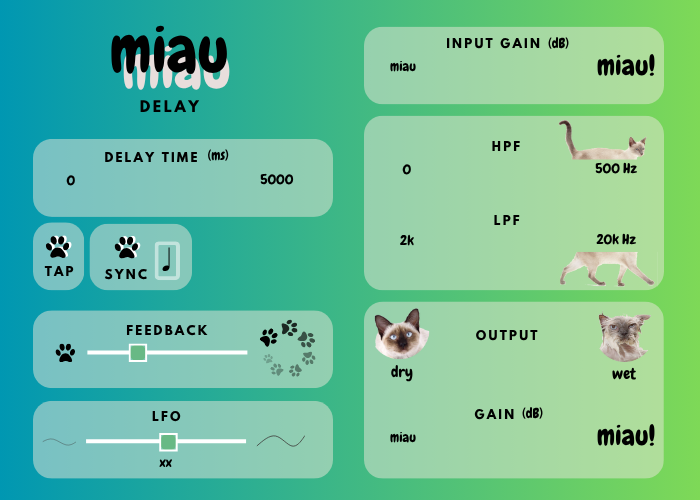
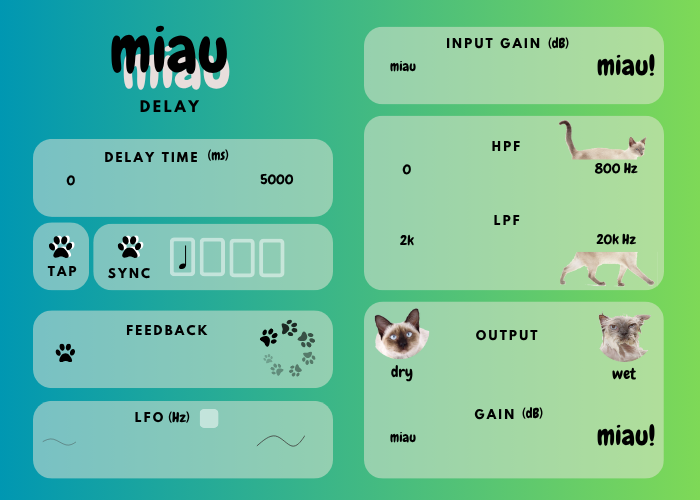
🚧 lfo y sync

diff --git a/Source/PluginProcessor.cpp b/Source/PluginProcessor.cpp
@@ -31,7 +31,7 @@ MiauDelay::~MiauDelay()
 juce::AudioProcessorValueTreeState::ParameterLayout MiauDelay::createParameters()
 {
     juce::AudioProcessorValueTreeState::ParameterLayout parameters;
-    
+    auto waves = juce::StringArray("Sine", "Square", "Saw", "Triangle");
 
     // Par�metros del tiempo del delay
     parameters.add(std::make_unique<juce::AudioParameterInt>(juce::ParameterID{ "DelayTime", 1 }, "DelayTime", 0, 5000, 250));
@@ -43,7 +43,9 @@ juce::AudioProcessorValueTreeState::ParameterLayout MiauDelay::createParameters(
     parameters.add(std::make_unique<juce::AudioParameterInt>(juce::ParameterID{ "LPFFreq", 1 }, "LPFFreq", 2000, 20000, 20000));
     parameters.add(std::make_unique<juce::AudioParameterBool>(juce::ParameterID{ "SyncMode", 1 }, "SyncMode", false));
     parameters.add(std::make_unique<juce::AudioParameterChoice>(juce::ParameterID{ "SyncTime", 1 }, "SyncTime", juce::StringArray{ "1", "1/2", "1/4", "1/8"}, 0));
-
+    parameters.add(std::make_unique<juce::AudioParameterFloat>(juce::ParameterID{ "LFO", 1 }, "LFO", 0.01f, 20.0f, 10.0f));
+    parameters.add(std::make_unique<juce::AudioParameterChoice>(juce::ParameterID{ "LFOChoice", 1 }, "LFOChoice", waves, 0));
+    parameters.add(std::make_unique<juce::AudioParameterBool>(juce::ParameterID{ "ActiveLFO", 1 }, "ActiveLFO", false));
 
     return parameters;
 }
@@ -123,6 +125,7 @@ void MiauDelay::prepareToPlay (double sampleRate, int samplesPerBlock)
 	delay.prepare(sampleRate, samplesPerBlock);
     hpf.prepare(spec);
     lpf.prepare(spec);
+    lfo.prepare(sampleRate);
 }
 
 void MiauDelay::releaseResources()
@@ -166,9 +169,12 @@ void MiauDelay::updateParameters()
     float inOutputGainValue = *apvts.getRawParameterValue("OutputGain");
     float inHPFFreqValue = *apvts.getRawParameterValue("HPFFreq");
     float inLPFFreqValue = *apvts.getRawParameterValue("LPFFreq");
+    float inLFOFreqValue = *apvts.getRawParameterValue("LFO");
+    bool inLFOActive = *apvts.getRawParameterValue("ActiveLFO");
+   // auto inLFOChoiceValue = *apvts.getRawParameterValue("LFOChoice");
     bool inSyncMode = *apvts.getRawParameterValue("SyncMode");
     int inSyncTimeValue = *apvts.getRawParameterValue("SyncTime");
-      
+    
 
     if (inSyncMode)
     {
@@ -179,7 +185,7 @@ void MiauDelay::updateParameters()
             if (bpmValue.hasValue())
             {
                 // Convert sync time value to milliseconds
-                syncTimeHandler.setSyncMode(inSyncTimeValue);
+              //  syncTimeHandler.setSyncMode(inSyncTimeValue);
                 inDelayTimeValue = syncTimeHandler.getSyncTimeInterval(inSyncMode, bpmValue);
             }
         }
@@ -192,6 +198,9 @@ void MiauDelay::updateParameters()
    outputGain.setGainValue(inOutputGainValue);
    hpf.setHPFFreqValue(inHPFFreqValue);
    lpf.setLPFFreqValue(inLPFFreqValue);
+   lfo.setFrequencyValue(inLFOFreqValue);
+   lfoActive = inLFOActive;
+   lfo.setChoiceValue(*apvts.getRawParameterValue("LFOChoice")); // TODO ¿Por qué no se puede hacer como los demás?
 }
 
 void MiauDelay::processBlock (juce::AudioBuffer<float>& buffer, juce::MidiBuffer& midiMessages)
@@ -213,6 +222,11 @@ void MiauDelay::processBlock (juce::AudioBuffer<float>& buffer, juce::MidiBuffer
     // TODO: unificar en una sola funci�n?
     hpf.processHPF(buffer);
     lpf.processLPF(buffer);
+
+    if (lfoActive)
+    {
+        lfo.process(buffer);
+    }
 
     dryWet.process(dryBuffer, buffer);
     outputGain.process(buffer);

diff --git a/Source/DSP/LFO.cpp b/Source/DSP/LFO.cpp
@@ -1,0 +1,129 @@
+/*
+  ==============================================================================
+
+    LFO.cpp
+    Created: 22 Jun 2025 12:25:42pm
+    Author:  masal
+
+  ==============================================================================
+*/
+
+#include "LFO.h"
+
+LFO::LFO() {};
+LFO::~LFO() {};
+
+void LFO::prepare(double theSampleRate)
+{
+	sampleRate = static_cast<float>(theSampleRate);
+	
+    for (int i = 0; i < 2; i++)
+    {
+        time[i] = 0.0f;
+		deltaTime[i] = 1.0f / sampleRate;
+    }
+}
+
+void LFO::process(juce::AudioBuffer<float>& buffer)
+{
+    for (int channel = 0; channel < buffer.getNumChannels(); channel++)
+    {
+        for (int i = 0; i < buffer.getNumSamples(); i++)
+        {
+			float sample = buffer.getSample(channel, i);
+			float waveValue = 0.0f;
+
+            switch (choiceValue)
+            {
+            case Wave::Sine:
+                waveValue = sineWave(channel);
+                break;
+
+            case Wave::Square:
+				waveValue = squareWave(channel);
+				break;
+
+            case Wave::Saw:
+				waveValue = sawtoothWave(channel);
+
+            case Wave::Triangle:
+				waveValue = triangleWave(channel);
+                break;
+            }
+
+            float y = sample * waveValue;
+            buffer.setSample(channel, i, y);
+
+			time[channel] += deltaTime[channel];
+
+            // Reset time variable
+			if (time[channel] >= 1.0f)
+			{
+				time[channel] = 0.0f;
+			}
+        }
+    }
+}
+
+void LFO::setFrequencyValue(float freqValue)
+{
+    frequencyValue = freqValue;
+}
+
+void LFO::setChoiceValue(int choice) 
+{
+    choiceValue = choice;
+}
+
+float LFO::sineWave(int channel)
+{
+    return 0.5f + (0.5f * sinf(twoPi * frequencyValue * time[channel]));
+}
+
+float LFO::squareWave(int channel)
+{
+    float fullPeriodTime = 1.0f / frequencyValue;
+    float halfPeriodTime = fullPeriodTime / 2.0f;
+    float localTime = fmod(time[channel], fullPeriodTime);
+
+    if (localTime < halfPeriodTime)
+    {
+        return 1.0f;
+    }
+    else
+    {
+        return 0.0f;
+    }
+}
+
+float LFO::triangleWave(int channel)
+{
+    float res = 0.0f;
+    float fullPeriodTime = 1.0f / frequencyValue;
+    float localTime = fmod(time[channel], fullPeriodTime);
+
+    float value = localTime / fullPeriodTime;
+
+    if (value < 0.25f)
+    {
+        res = value * 4.0f;
+    }
+    else if (value < 0.75f)
+    {
+        res = 2.0f - (value * 4.0f);
+    }
+    else
+    {
+        res = value * 4.0f - 4.0f;
+    }
+    return res;
+}
+
+float LFO::sawtoothWave(int channel)
+{
+    float fullPeriodTime = 1.0f / frequencyValue;
+    float localTime = fmod(time[channel], fullPeriodTime);
+
+    return (localTime / fullPeriodTime);
+
+}

diff --git a/Source/PluginEditor.h b/Source/PluginEditor.h
@@ -34,8 +34,14 @@ public:
 private:
     MiauDelay& audioProcessor;
 
-    juce::Slider delayTimeSlider, feedbackSlider, dryWetSlider, inputGainSlider, outputGainSlider, hpfSlider, lpfSlider; // lfoSlider;
-    std::unique_ptr<juce::AudioProcessorValueTreeState::SliderAttachment>  delayTimeAttach, feedbackAttach, dryWetAttach, inputGainAttach, outputGainAttach, hpfAttach, lpfAttach; //lfoAttach;
+    juce::Slider delayTimeSlider, feedbackSlider, dryWetSlider, inputGainSlider, outputGainSlider, hpfSlider, lpfSlider, lfoSlider;
+    std::unique_ptr<juce::AudioProcessorValueTreeState::SliderAttachment>  delayTimeAttach, feedbackAttach, dryWetAttach, inputGainAttach, outputGainAttach, hpfAttach, lpfAttach, lfoAttach;
+
+    juce::TextButton lfoActive;
+    std::unique_ptr<juce::AudioProcessorValueTreeState::ButtonAttachment> lfoActiveAttach;
+
+    juce::ComboBox lfoChoiceCombo;
+    std::unique_ptr<juce::AudioProcessorValueTreeState::ComboBoxAttachment> lfoChoiceAttach;
 
     juce::Image backgroundImage;
     juce::ImageComponent backgroundComponent;

diff --git a/Source/DSP/LFO.h b/Source/DSP/LFO.h
@@ -1,0 +1,46 @@
+/*
+  ==============================================================================
+
+    LFO.h
+    Created: 22 Jun 2025 12:25:42pm
+    Author:  masal
+
+  ==============================================================================
+*/
+
+#pragma once
+#include <JuceHeader.h>
+
+class LFO
+{
+public:
+    LFO();
+    ~LFO();
+
+    enum Wave
+    {
+        Sine = 0,
+        Square = 1,
+        Saw = 2,
+        Triangle = 3,
+    };
+
+    void prepare(double theSampleRate);
+    void process(juce::AudioBuffer<float>& buffer);
+
+    void setFrequencyValue(float newFrequency);
+    void setChoiceValue(int newChoiceValue);
+
+    float sineWave(int channel);
+    float squareWave(int channel);
+    float triangleWave(int channel);
+    float sawtoothWave(int channel);
+
+private:
+    float sampleRate{ 44100.0f };
+    float frequencyValue{ 20.0f };
+    float twoPi = juce::MathConstants<float>::twoPi;
+    float time[2];
+    float deltaTime[2];
+	int choiceValue { 0 };
+};

diff --git a/Source/PluginProcessor.h b/Source/PluginProcessor.h
@@ -14,6 +14,7 @@
 #include "DSP/Gain.h"
 #include "DSP/Filter.h"
 #include "DSP/SyncTimeHandler.h"
+#include "DSP/LFO.h"
 
 //==============================================================================
 /**
@@ -73,8 +74,11 @@ private:
     Filter hpf;
     Filter lpf;
 	SyncTimeHandler syncTimeHandler;
+    LFO lfo;
     
     juce::AudioBuffer<float> dryBuffer;
+
+    bool lfoActive{ false };
 
     //==============================================================================
     JUCE_DECLARE_NON_COPYABLE_WITH_LEAK_DETECTOR (MiauDelay)

diff --git a/Source/DSP/SyncTimeHandler.h b/Source/DSP/SyncTimeHandler.h
@@ -17,6 +17,7 @@ public:
     {
         float syncTimeInterval;
 
+        // TODO: Convertir a enum
         switch
 			(choice)
 		{
